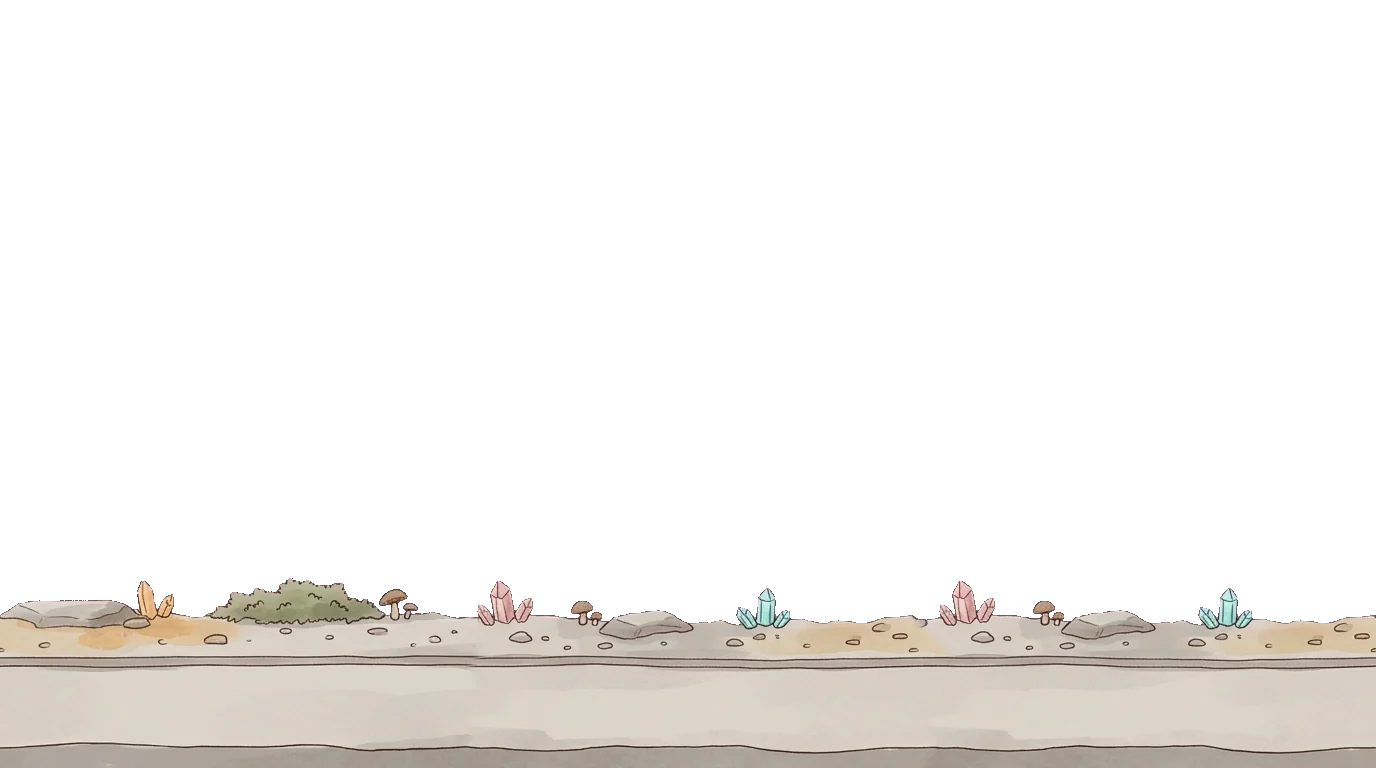
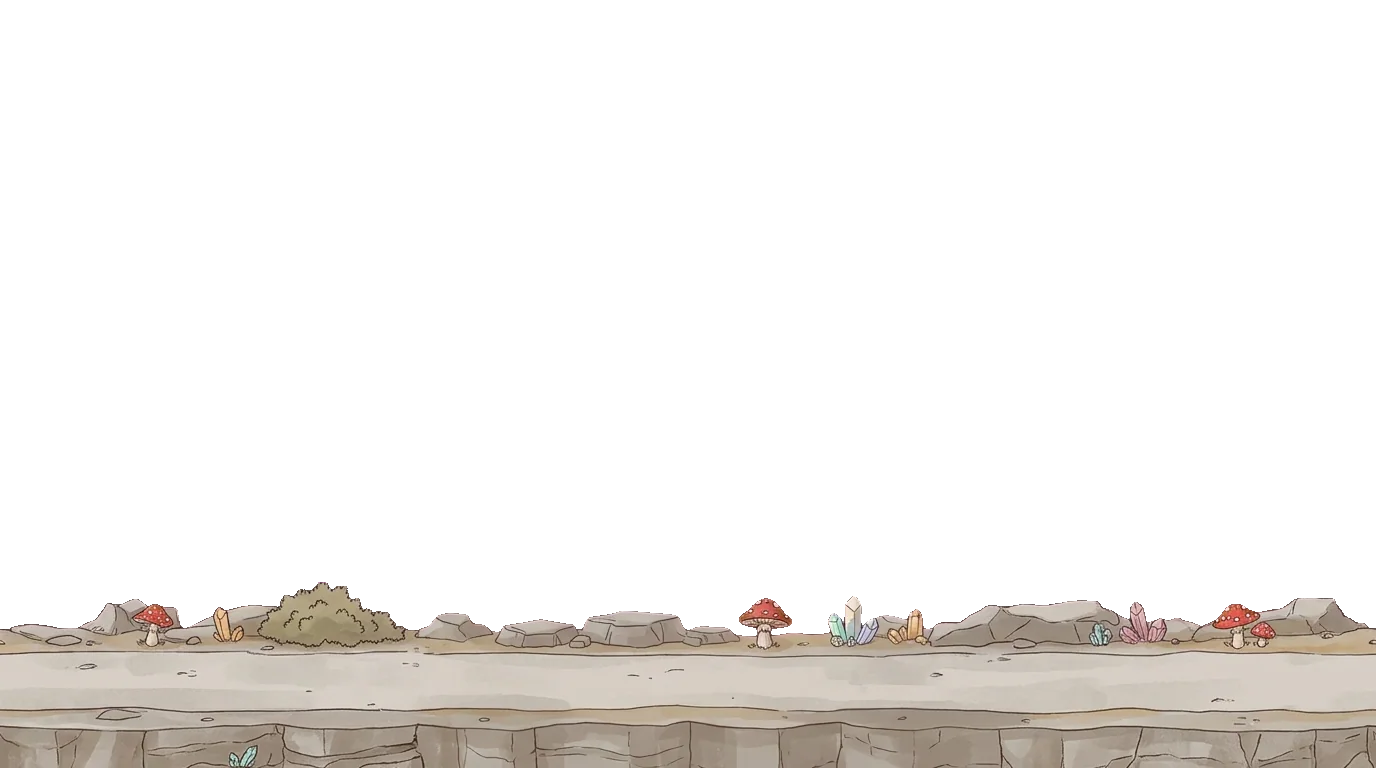
feat(egg): the owner's mountain backgrounds, seams by Gemini
Claude-Session: https://claude.ai/code/session_01MAZwqUiswenzU1vg4sNc4N

Changed region(s): [[0.0, 0.75, 1.0, 1.0]]

diff --git a/assets-src/PROMPTS.md b/assets-src/PROMPTS.md
@@ -138,6 +138,12 @@ Notes from real Gemini runs; add new ones here.
 - A single strip on magenta always came out about half the picture tall, whatever the pixel
   heights in the prompt; an attached layout (magenta with a white band to fill) was ignored too.
   A "sheet of three low strips stacked above each other" came at the asked scale (190 px each).
+- A far seam repaint with the usual 30 % gap drew a pass or valley with distant low mountains in
+  it (egg, 2026-10-31); `prep <img> <dir> 0.14` and "one big peak as high as the ones beside it, NO
+  pass, NO valley" kept the ridge line. A low strip at the bottom of a tall magenta frame came back
+  drawn twice, the second copy in the magenta; "a single low strip at the bottom ... the magenta area
+  stays empty, do not add a second strip" fixed it, and naming the things to draw ("low flat rocks,
+  one mushroom, one crystal group; no stacked stones") gave a middle like the sides.
 - A colored fill (blue) in a seam repaint tinted the sky painted into it; white "empty paper"
   did not. An inpainting prompt that starts with "Generate an image" gets a new picture.
 - A follow-up "less sky" stacked the landscape twice in one picture; ask again from scratch.
@@ -489,9 +495,9 @@ flat storybook style and no longer apply.
 | `bg-dragons-far.jpg` | a peaceful dragon valley at sunset, warm orange and pink colours in the sky, the sun hidden behind the mountains, soft rounded mountains and a waterfall | full | done 2026-10-23 |
 | `bg-dragons-mid.jpg` | (the owner's picture on a cyan key, 2026-10-29) wooded hills, a big fly agaric, a mossy cave with a glowing crystal, a tree with red and yellow blossoms, then a wide calm meadow | full | done 2026-10-29 (seam by Gemini, moved down 8 px: its skyline at 62 % from the bottom) |
 | `bg-dragons-near.jpg` | (the owner's picture on a cyan key, 2026-10-29) a low grassy edge with a red crystal, a stump, fly agarics, pebbles, blue flowers, then wide calm grass | full | done 2026-10-29 (seam by Gemini, moved down 284 px: its skyline at 22 % from the bottom) |
-| `bg-egg-far.jpg` | (redone 2026-10-31, the Mountain of Awakening; attach `bg-planet-far.png` as a style guide and say the landscape must be different) rocky hills and peaks in grey-brown and warm ochre with moss patches, many big groups of pale crystals (amber, rose quartz, aquamarine) in the slopes, no mushroom trees, a light blue sky with small jagged sawtooth clouds tinted soft orange, peaks of similar size across the width | full | done 2026-10-31 (seam by Gemini; the grey tone it gave the middle sky was corrected locally) |
-| `bg-egg-mid.jpg` | (redone 2026-10-31) flat rocky terrain far back: low rocks and slabs, some under moss with low stemless flowers, a few small mushrooms and crystals growing out of the rock; calm, nothing tall | low band | done 2026-10-31 (sheet of two strips on a dull pink key turned to pure magenta locally; strips came 130 px tall, not 330; quilted from the other strip, lifted 133 px) |
-| `bg-egg-near.jpg` | (redone 2026-10-31) a path of pale grey-tan stone on rocky ground: small crystals, a few mushrooms and one low bush along its upper edge, the lower half of the path calm rock with no detail | full | done 2026-10-31 (sheet of three strips, quilted, moved down 14 px: the path runs y 623 to 745, its middle at 89 % of the stage like `bg-planet-near`) |
+| `bg-egg-far.jpg` | (the owner's picture, 2026-10-31) rocky grey-brown and ochre peaks with big groups of pale crystals (amber, rose quartz, aquamarine), moss patches and one fly agaric, a light blue sky with small jagged orange-tinted clouds | full | done 2026-10-31 (seam by Gemini with a narrow 14 % gap and "one big peak, no pass": a 30 % gap got a pass down to the horizon) |
+| `bg-egg-mid.jpg` | (the owner's picture, 2026-10-31) a wide field of rounded mossy boulders and ochre slabs with fly agarics and small crystals, to the bottom edge | full | done 2026-10-31 (seam by Gemini, moved down 100 px: its skyline at about 40 % of the stage) |
+| `bg-egg-near.jpg` | (the owner's picture, 2026-10-31, 1376 x 300) a pale stone path with low rocks, crystals, fly agarics and one bush along its upper edge, a cracked rock wall below | full | done 2026-10-31 (put at the bottom of a magenta frame, seam by Gemini on the 3rd try, moved down 84 px: the path's middle at 89 % of the stage) |
 
 ## 4. Game objects (sprites)
 
